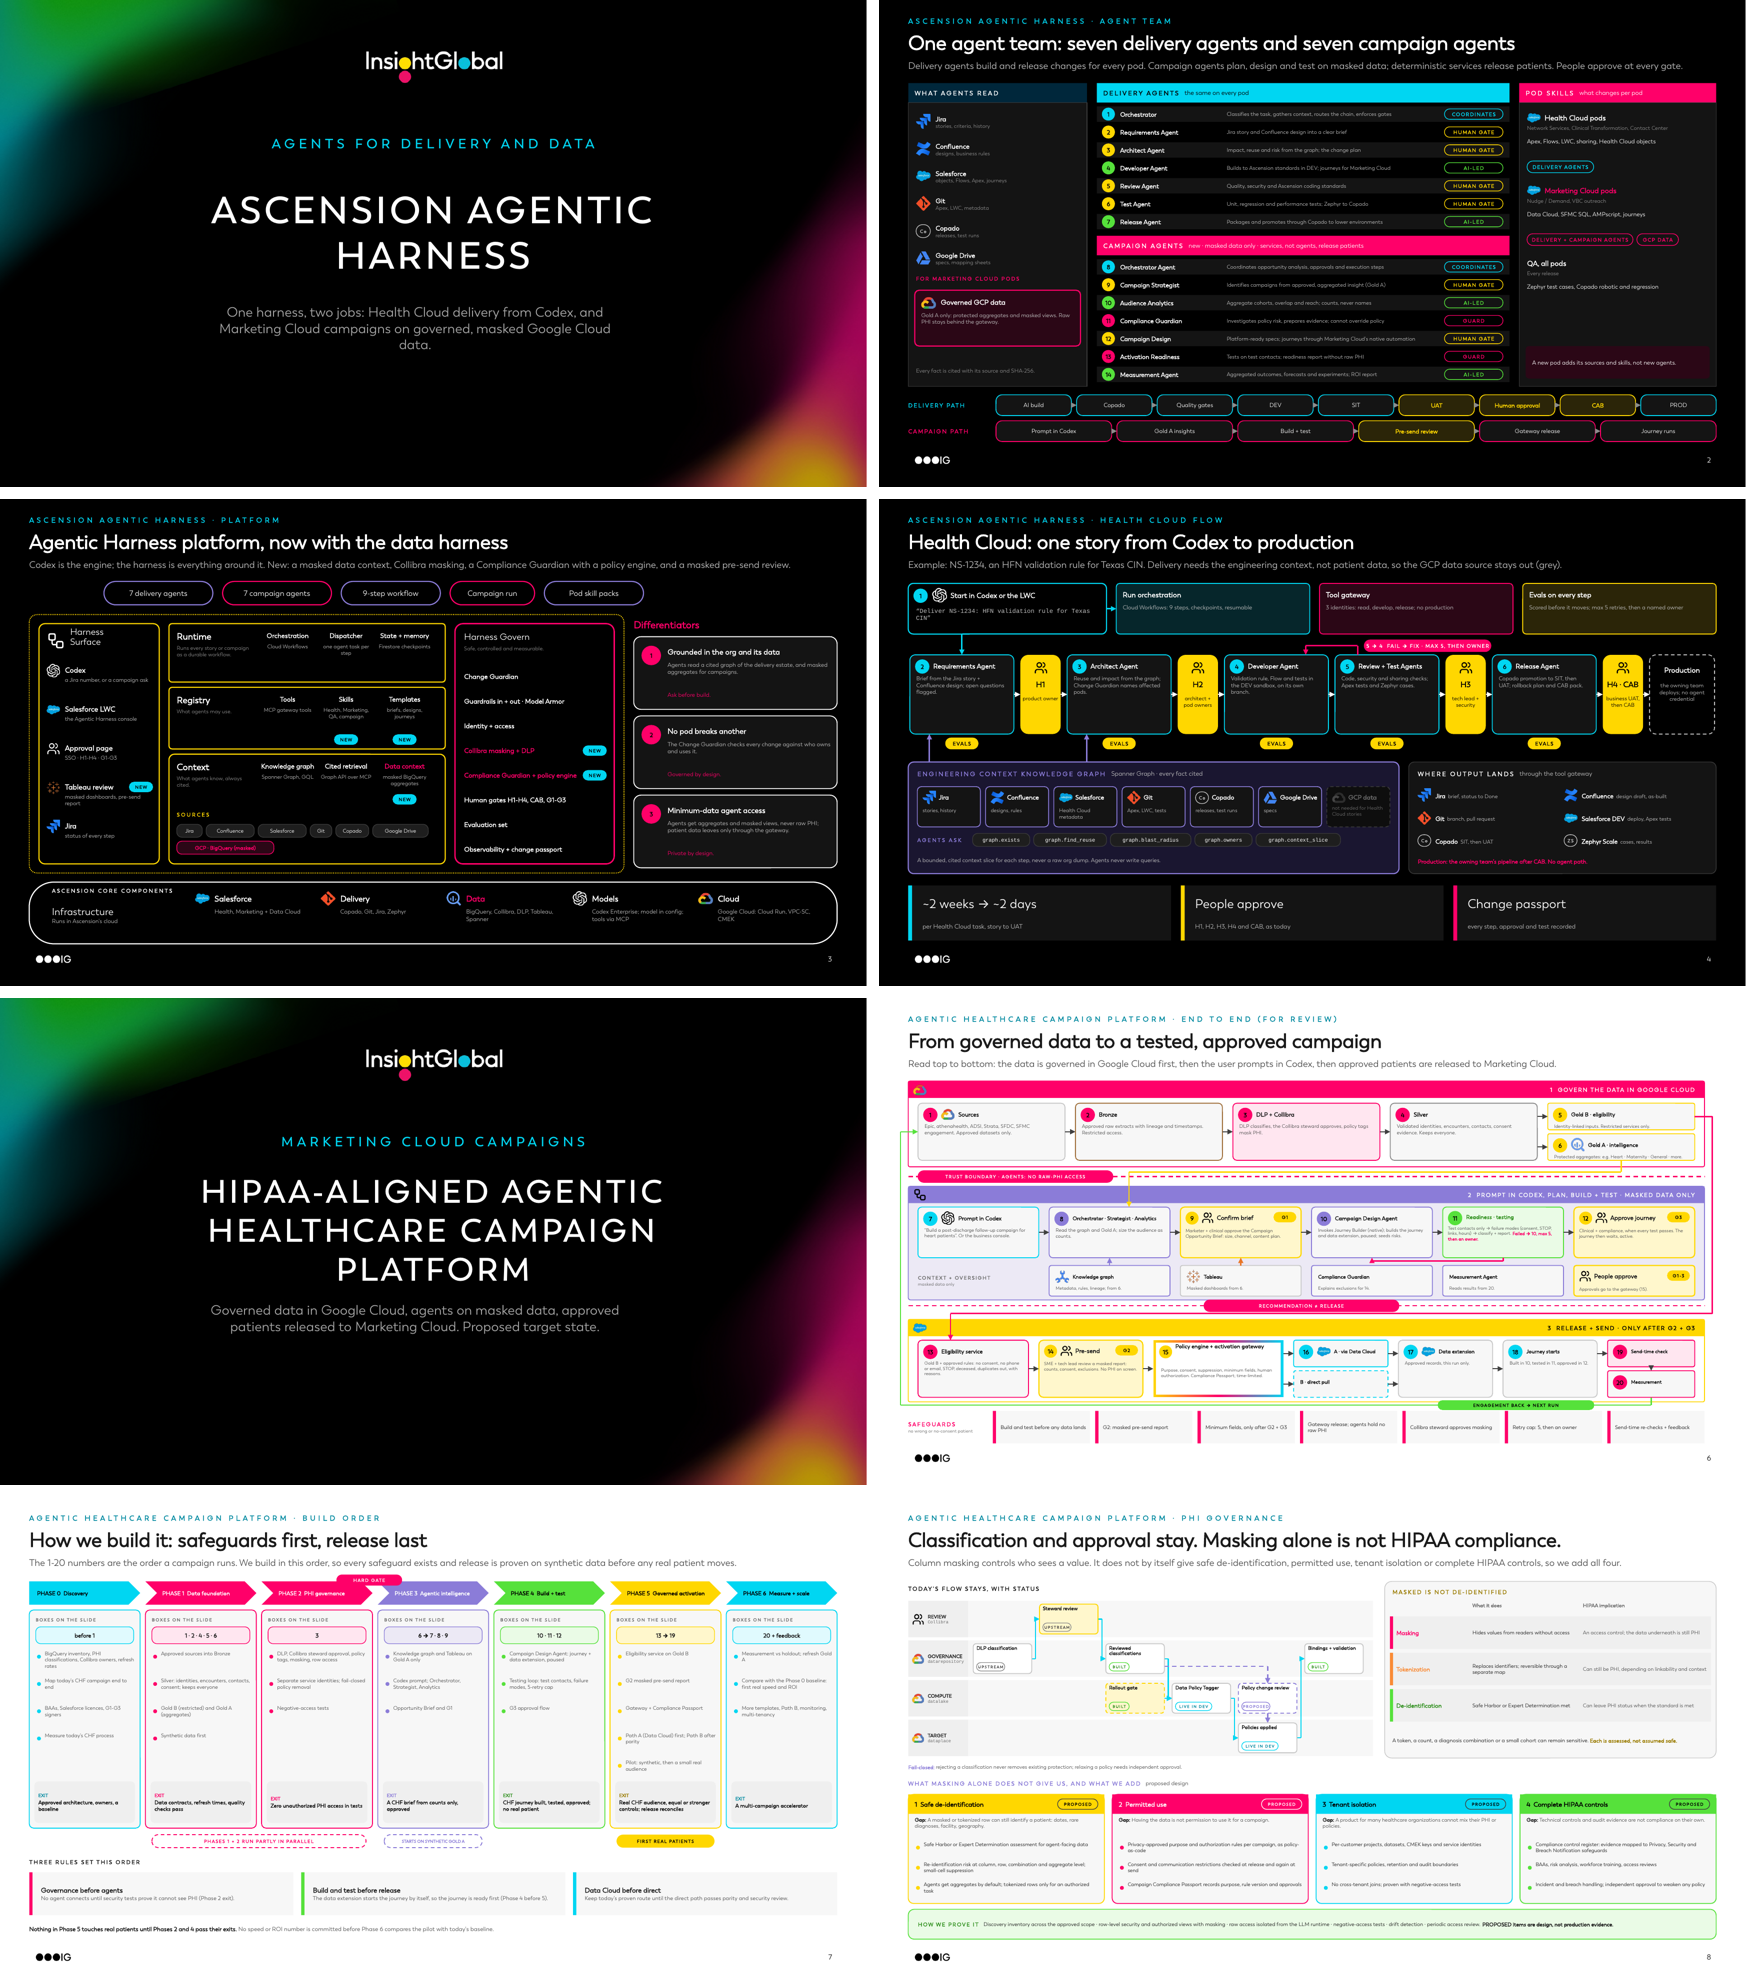
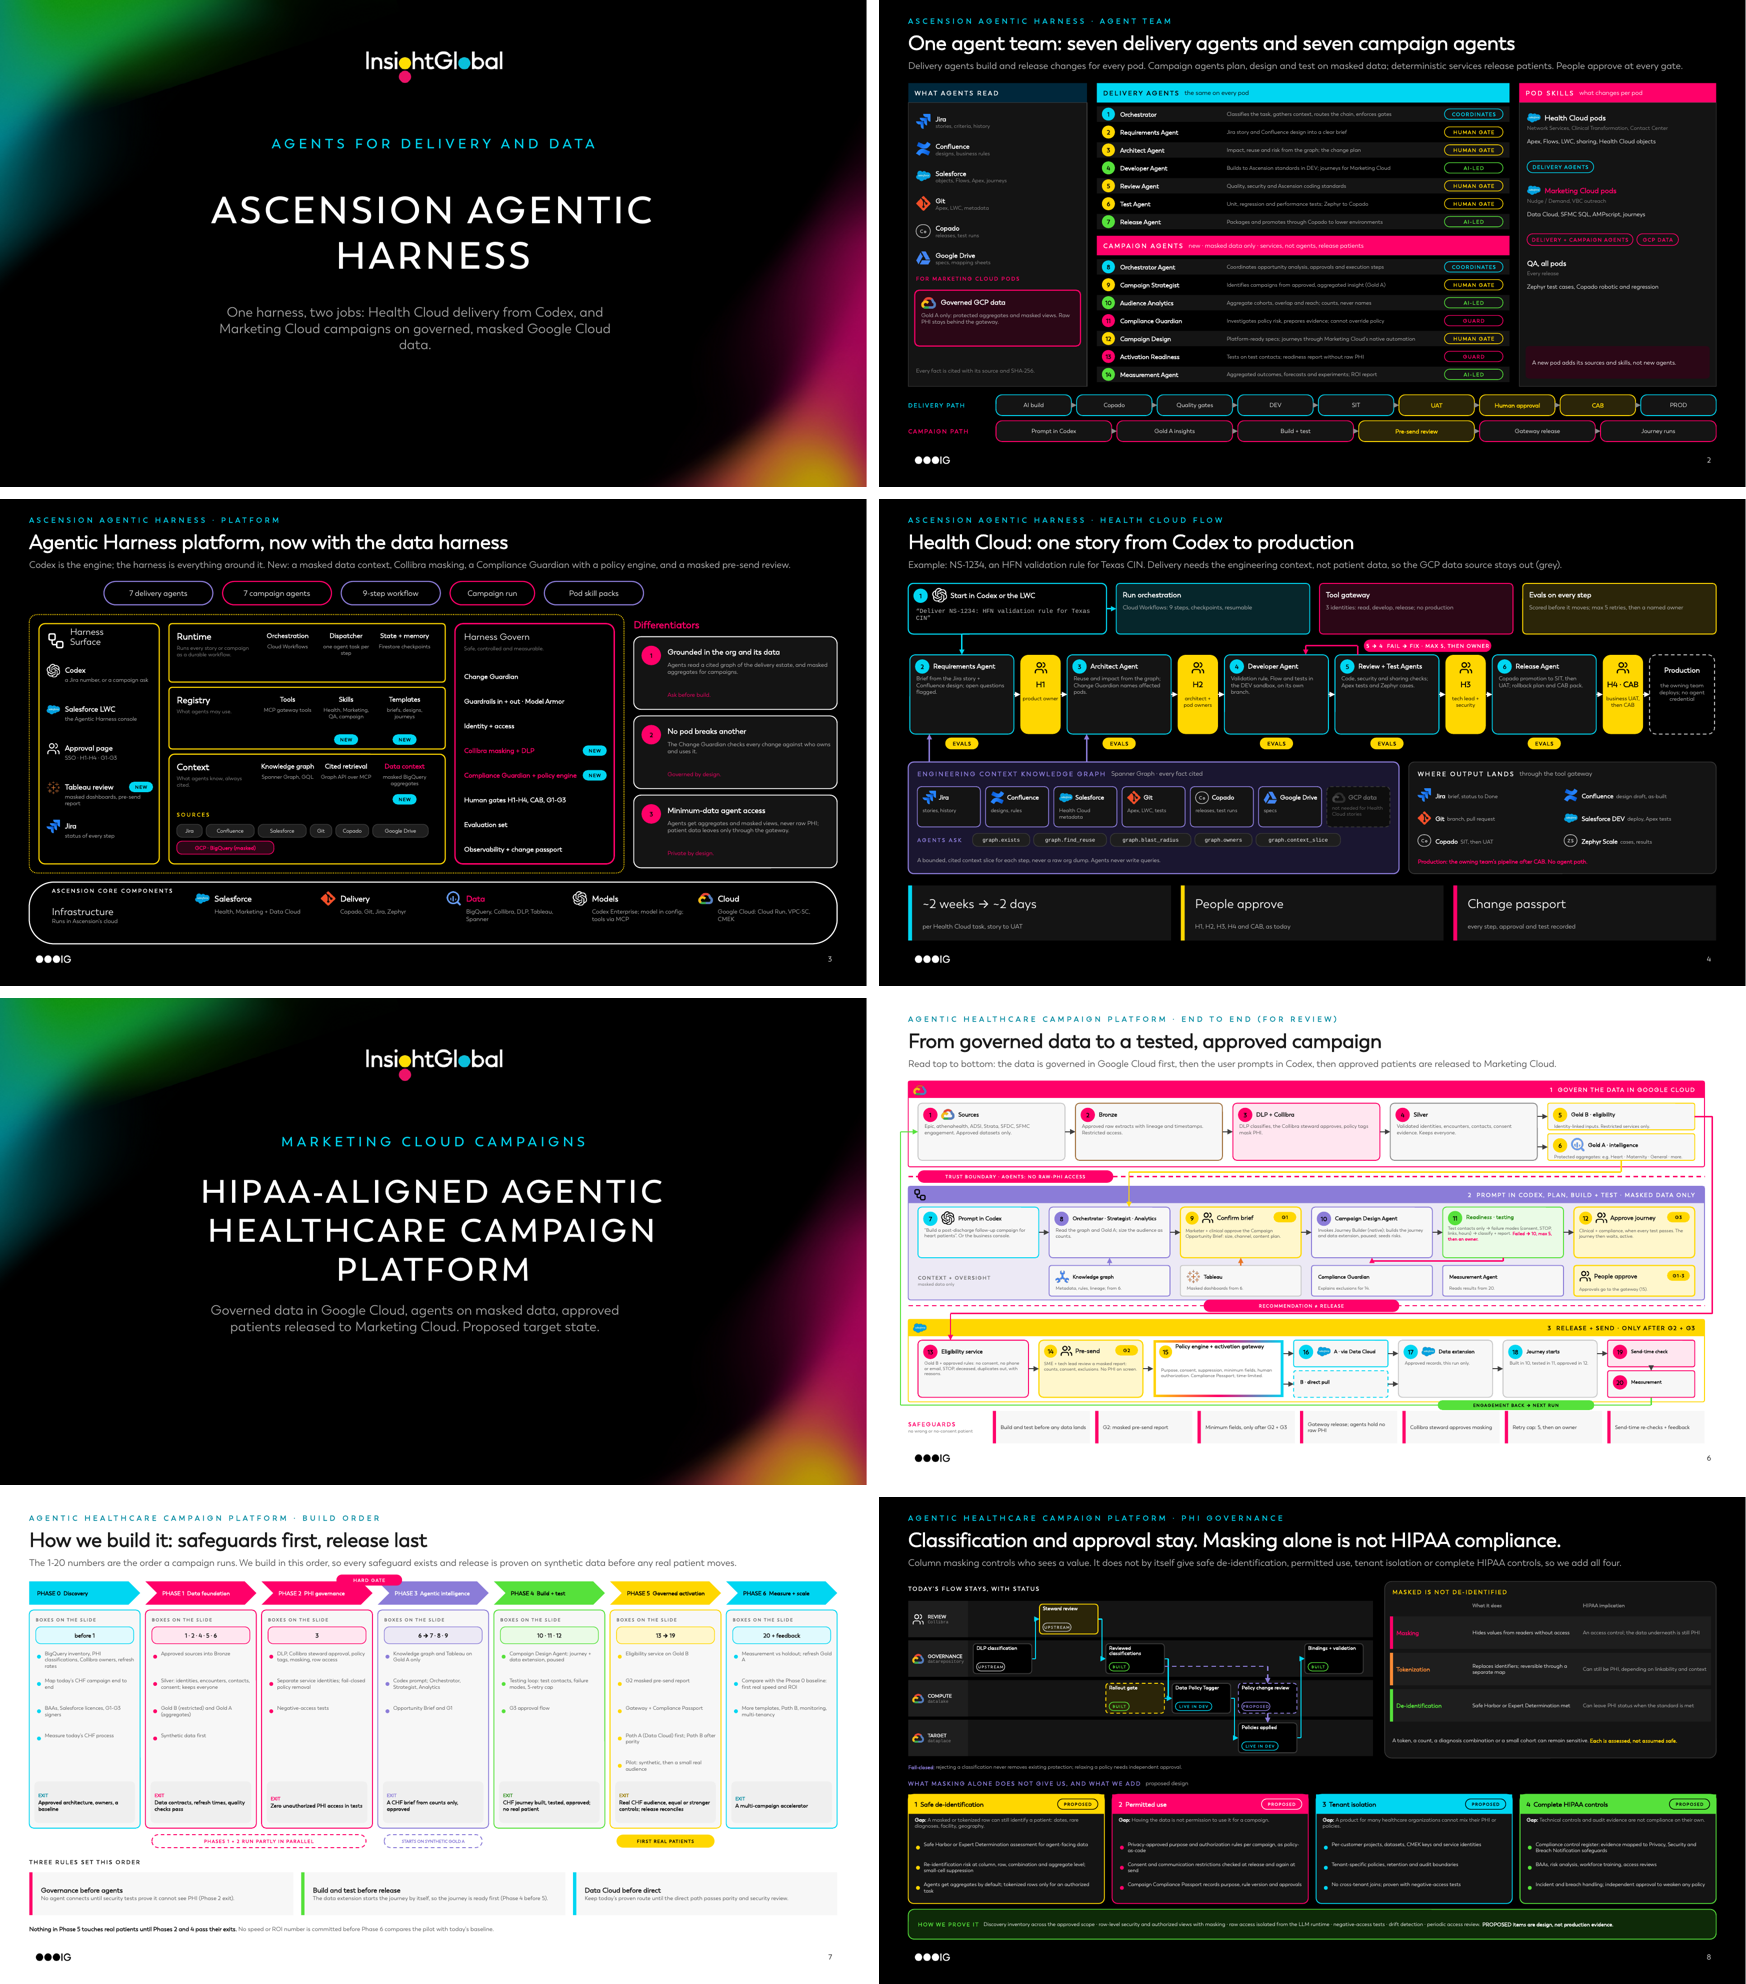
Data Harness deck: PHI governance slide (8) in the dark theme
Claude-Session: https://claude.ai/code/session_01Hf94kqMzSofkkrQm7kpNba

Changed region(s): [[0.4948, 0.75, 1.0, 1.0]]

diff --git a/poc/data_harness/build_data_harness_deck.py b/poc/data_harness/build_data_harness_deck.py
@@ -7,9 +7,9 @@
 5 Section: HIPAA-Aligned Agentic Healthcare Campaign Platform
 6 Marketing campaigns end to end, from governed data to a tested, approved campaign (white)
 7 How we build it: safeguards first, release last (white)
-8 PHI governance: classification and approval stay; masking alone is not HIPAA compliance (white)
+8 PHI governance: classification and approval stay; masking alone is not HIPAA compliance
 
-Slides 6-8 come from combined_flow.py and campaign_platform_deck.py, recoloured for a white background.
+Slides 6-8 come from combined_flow.py and campaign_platform_deck.py; 6 and 7 are recoloured for a white background.
 
     python3 build_data_harness_deck.py [out.pptx]
 """
@@ -660,14 +660,20 @@ def main(out=OUT):
     platform_slide(prs, layout)
     health_slide(prs, layout)
     section_slide(prs)
+    cpd.phi_governance(prs, layout)             # dark, built before the light icon swap
     combined_flow.light_logos()                 # white slides use the dark icon variants
     flow = combined_flow.build(prs, layout)
     set_notes(flow, cpd.FLOW_NOTES)
     order = cpd.build_order(prs, layout)
-    gov = cpd.phi_governance(prs, layout)
-    for sl in (flow, order, gov):
+    for sl in (flow, order):
         set_bg(sl, "FFFFFF")
         combined_flow.recolor_light(sl)
+    # built as title, team, platform, health, section, governance, flow, order; governance shown last
+    ids = list(lst)
+    for el in ids:
+        lst.remove(el)
+    for k in (0, 1, 2, 3, 4, 6, 7, 5):
+        lst.append(ids[k])
     for line in fix_footers(prs):
         print(line)
     prs.save(out)
